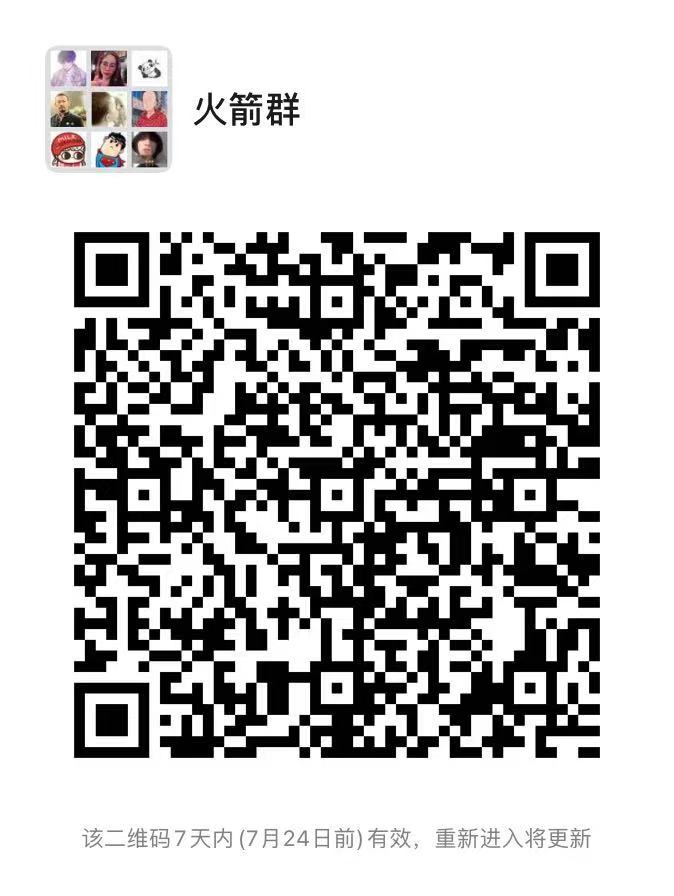
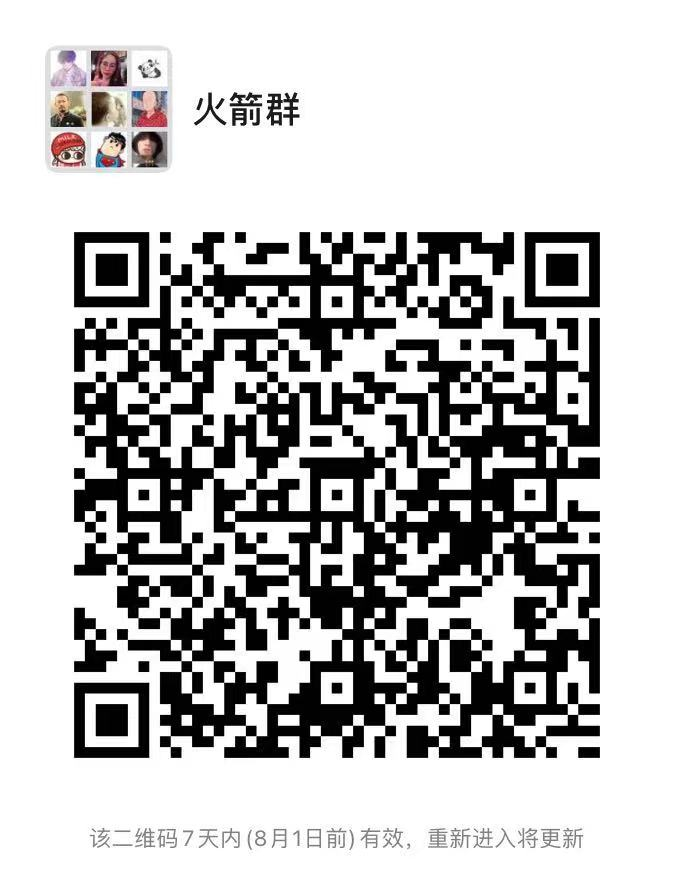
change image

diff --git a/README.md b/README.md
@@ -13,6 +13,8 @@ Github项目主页：https://github.com/NotFound9/interviewGuide
 
 欢迎大家进群一起学习进步！
 
+（另外我目前在一个互联网大厂工作，我们这边在大量招人，大家如果在找工作也可以扫下方的码填加我的微信，或者搜索**577528249** 添加我的微信，备注**内推**，我可以帮大家内推，除了我所在的公司以外，我还都有同事在各个大公司，也可以帮大家内推到那些公司。）
+
 <figure class="half">
 <img src="http://notfound9.github.io/interviewGuide/static/qe222wewewqere.jpeg" width="30%"/>
 <img src="http://notfound9.github.io/interviewGuide/static/image1.jpg" width="30%"/>
